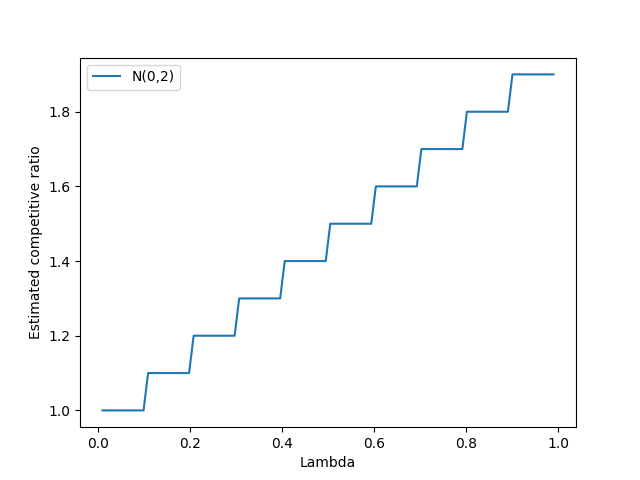
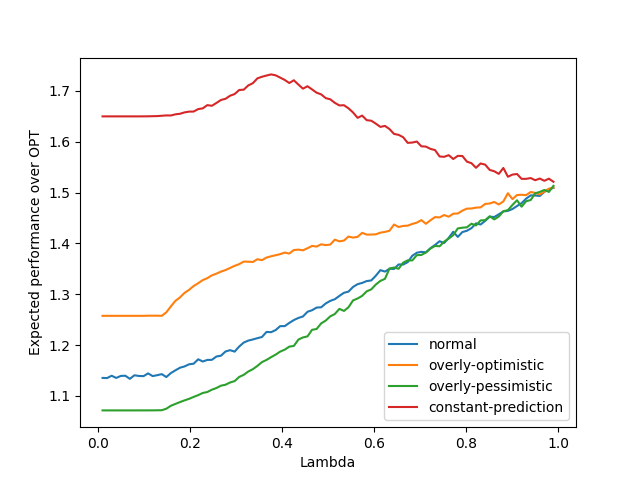
Now expectancy of ratios over opt is considered, instead of trying to calculate a competititve ratio

diff --git a/ski_rental.py b/ski_rental.py
@@ -23,13 +23,22 @@ class Predictor:
     if config.get('error_distribution') == 'normal':
       sigma = config.get('sigma')
       self.N_pred = int(max(1, np.round(np.random.normal(problem_instance.N, sigma, 1)).item()))
+    elif config.get('error_distribution') == 'optimistic':
+      delta = config.get('delta')
+      self.N_pred = problem_instance.N + delta
+    elif config.get('error_distribution') == 'pessimistic':
+      delta = config.get('delta')
+      self.N_pred = max(1, problem_instance.N - delta)
+    elif config.get('error_distribution') == 'constant-prediction':
+      self.N_pred = config.get('constant')
 
 class SkiRentalPDLA:
   """
   instances_params: N and B values on which the algo will be tested
   """
-  def __init__(self, instances_params):
-    self.instances_params = instances_params
+
+  def __init__(self, NBs):
+    self.NBs = NBs
 
   def run(self, problem_instance:SkiRentalProblemInstance, lam, N_pred):
     B = problem_instance.B
@@ -72,34 +81,48 @@ class SkiRentalPDLA:
       predictor = Predictor(problem_instance, predictor_config)
       cost_alg = self.run(problem_instance, lam, predictor.N_pred)
       competitive_ratios.append(cost_alg / problem_instance.OPT_cost())
-    return max(competitive_ratios)
+    return np.mean(competitive_ratios).item()
 
   def compute_statistics(self, predictor_configs):
     lams = np.linspace(0.01, 0.99, 100)
     for config in predictor_configs:
       competitive_ratios = []
       for lam in lams:
-        cr_instances = [self.monte_carlo_eval_competitive_ratio(N, B, config, lam) for (N, B) in self.instances_params]
-        competitive_ratios.append(max(cr_instances))
+        competitive_ratios.append(np.mean([self.monte_carlo_eval_competitive_ratio(N, B, config, lam) for (N, B) in self.NBs]).item())
       print(competitive_ratios)
       plt.plot(lams, competitive_ratios, label=config.get('name'))
 
     plt.xlabel('Lambda')
-    plt.ylabel('Estimated competitive ratio')
+    plt.ylabel('Expected performance over OPT')
     plt.legend()
     plt.savefig('plots/statistics.png')
-
-
-
 
 if __name__ == '__main__':
   configs = [
     {
-      'name':'N(0,2)',
+      'name':'normal',
       'error_distribution':'normal',
-      'sigma':1
+      'sigma':5
+    },
+    {
+      'name':'overly-optimistic',
+      'error_distribution':'optimistic',
+      'delta':5
+    },
+    {
+      'name':'overly-pessimistic',
+      'error_distribution':'pessimistic',
+      'delta':5
+    },
+    {
+      'name':'constant-prediction',
+      'error_distribution':'constant-prediction',
+      'constant':1
     }
   ]
-  instances_params = [(N, 20) for N in range(1, 50, 5)]
-  ski_pdla = SkiRentalPDLA(instances_params)
+
+  # generate problem instances with the same cost of OPT
+  NBs = [(N, 7) for N in range(1, 21)]
+
+  ski_pdla = SkiRentalPDLA(NBs)
   ski_pdla.compute_statistics(configs)
